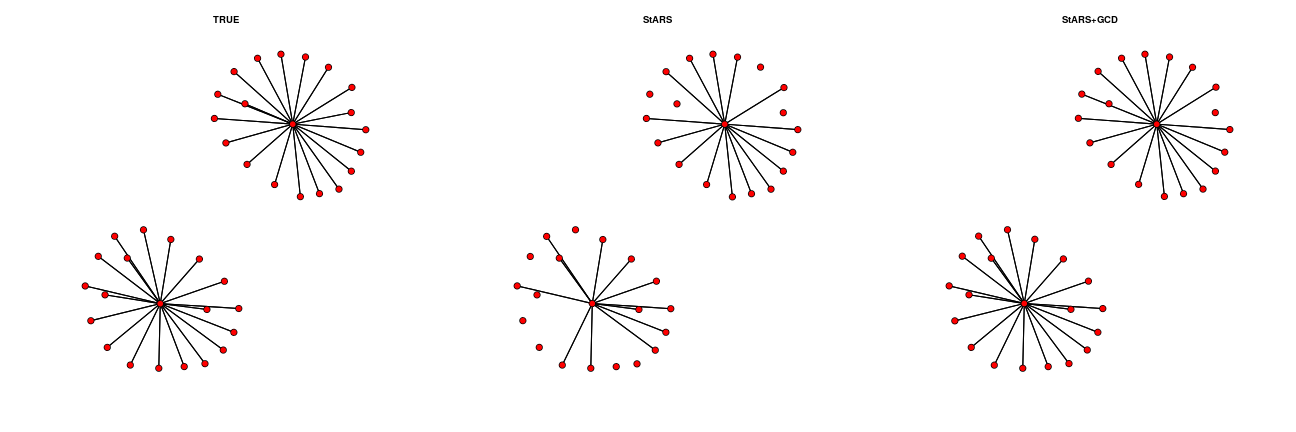
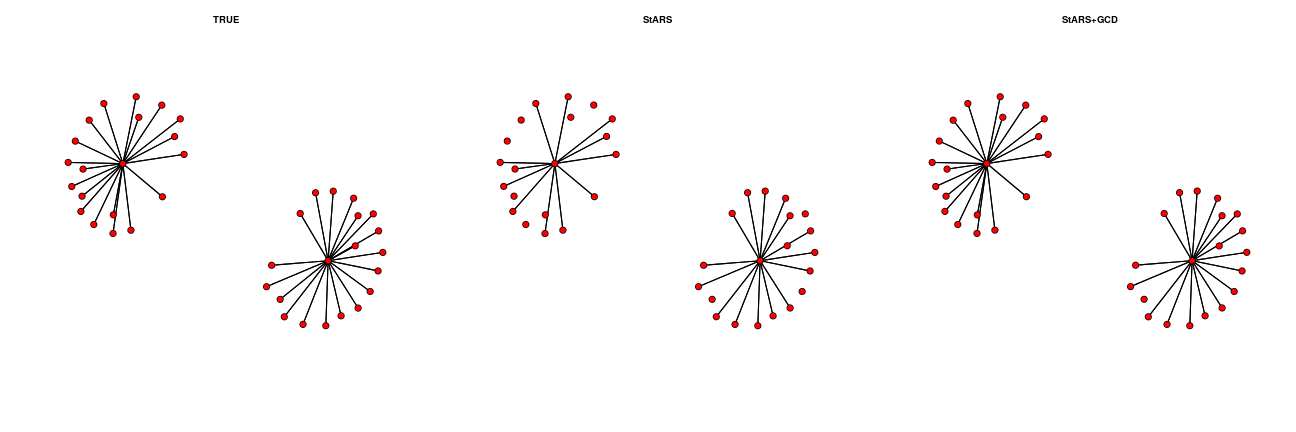
update README for rcpp branch

diff --git a/README.md b/README.md
@@ -33,12 +33,16 @@ Please see the paper preprint on [arXiv](https://arxiv.org/abs/1605.07072).
 ## Installation
 
 Installation of the current development version of pulsar requires the devtools package. Also we
-recommend some other packages for installation as needed (such as `huge`).
+recommend some other packages for installation as needed (such as `huge`). This branch uses Rcpp and
+RcppArmadillo for faster computation of some graph features (e.g. see [Additional criteria](#additional-criteria))
+section in this README. However, compiling custom C++ package is more bloated and may difficult to
+install (i.e. for certain operating systems). Stick to the master branch of this github if this
+applies to you.
 
 
 ```r
 library(devtools)
-install_github("zdk123/pulsar")
+install_github("zdk123/pulsar", ref="RcppArma")
 library(pulsar)
 ```
 
@@ -160,19 +164,181 @@ fit.q2 <- refit(out.q2)
 Compare model error by relative hamming distances between refit adjacency matrices and the true
 graph and visualize the results:
 
+```r
+plot(out.q2, scale=TRUE)
+```
+
+![plot of chunk unnamed-chunk-11](http://i.imgur.com/OukF6by.png)
+
+```r
+starserr <- sum(fit.q2$refit$stars != dat$theta)/p^2
+gcderr   <- sum(fit.q2$refit$gcd   != dat$theta)/p^2
+gcderr < starserr
+# [1] TRUE
+
+## install.packages('network')
+truenet  <- network::network(dat$theta)
+starsnet <- network::network(summary(fit.q2$refit$stars))
+gcdnet   <- network::network(summary(fit.q2$refit$gcd))
+par(mfrow=c(1,3))
+coords <- plot(truenet, usearrows=FALSE, main="TRUE")
+plot(starsnet, coord=coords, usearrows=FALSE, main="StARS")
+plot(gcdnet, coord=coords, usearrows=FALSE, main="StARS+GCD")
+```
+
+![plot of chunk unnamed-chunk-12](http://i.imgur.com/tIJMt6t.png)
+
+## Batch Mode
+
+For large graphs, we could reduce pulsar run time by running each subsampled dataset totally in
+parallel (i.e. each run as an indepedent job). This is a natural choice since we want to infer an
+independent graphical model for each subsampled dataset.
+
+Enter the BatchJobs. This package lets us invoke the queuing system in a high performance computing
+(hpc) environment so that we don't have to worry about any of the job-handling procedures in R.
+Pulsar has only been testing for Torque so far, but should work without too much effort for
+ LSF, SLURM, SGE and probably others.
+
+We also potentially gain efficiency in memory usage. Even for memory efficient representations of
+sparse graphs, for a lambda path of size L and for number N subsamples we must hold `L*N` `p*p`-
+sized adjacency matrices in memory to compute the summary statistic. BatchJobs lets us use a
+MapReduce strategy, so that only one `p*p` graph and one `p*p` aggregation matrix needs to be held
+in memory at a time. For large p, it can be more efficient to read data off the disk.
+
+This also means we will need access to a writable directory to write intermediate files (where the
+BatchJobs registry is stored). These will be automatically generated R scripts, error and output
+files and sqlite files so that BatchJobs can keep track of everything (although a different database
+can be used). Please see that package's documentation for more information. By default, pulsar will
+create the registry directory under R's  (platform-dependent) tmp directory but this should be
+overridden if these need to be retained long term (`regdir` argument to `batch.pulsar`).
+
+For generating BatchJobs, we need a configuration file (supply a path string to `conffile` argument,
+a good choice is the working directory) and a template file (which is best put in the same directory
+as the config file). Example config and PBS template file for Torque can be found in the /extdata/
+subdirectory of this github. See the BatchJobs homepage for creating templates for other systems.
+
+For this README I suggest using BatchJobs's convenient serial or multicore test mode to get things
+up and running. Download the files in a browser or directly in an R session:
+
+
+```r
+url <- "https://raw.githubusercontent.com/zdk123/pulsar/master/inst/extdata"
+url <- paste(url, ".BatchJobsSerialTest.R", sep="/") # Serial mode
+## url <- paste(url, ".BatchJobsMC.R", sep="/") # uncomment for multicore
+download.file(url, destfile=".BatchJobs.R")
+```
+
+Since BatchJobs is not imported by `pulsar`, it needs to be loaded.
+Uncomment `cleanup=TRUE` to remove registry directory (useful if running through this readme
+multiple times).
+
+
+```r
+library(BatchJobs)
+out.batch <- batch.pulsar(dat$data, fun=quicr, fargs=quicargs,
+                rep.num=100, criterion='stars', seed=10010) 
+                #, cleanup=TRUE)
+```
+
+Check that we get the same result from batch mode pulsar:
+
+
+```r
+opt.index(out.q, 'stars') == opt.index(out.batch, 'stars')
+# [1] TRUE
+```
+
+It is also possible to run bounded-mode stars in batch, but the first 2 subsamples (2 jobs) will
+run to completetion before the final N-2 are run. This serializes the batch mode a bit, but
+can still be faster for fine grain lambda paths and for sparse graphs. It is also advisable to
+do this for the `gcd` criterion because, computing graphlet frequencies can be costly and this is
+only done for the graphs in the bounded lambda path (in serial/multicore or batch pulsar).
+
+To keep the initial N=2 jobs separate from the rest, the string provided to the `init` argument
+("subtwo" by default) is concatenated to the basename of `regdir`. The registry/id is returned
+but named `init.reg` and `init.id` from `batch.pulsar`.
 
 
 
+```r
+out.bbatch <- update(out.batch, criterion=c('stars', 'gcd'),
+                     lb.stars=TRUE, ub.stars=TRUE)
+```
+
+Check that we get the same result from bounded/batch mode pulsar:
 
 
+```r
+opt.index(out.bbatch, 'stars') == opt.index(out.batch, 'stars')
+# [1] TRUE
+```
+
+### A few notes on batch mode pulsar
+
+* In real applications, on an hpc, it is important to specify the `res.list` argument, which is a
+__named__ list of PBS resources that matches the template file. For example if using the 
+simpletorque.tml file provided in /extdata/, one would provide `res.list=list(walltime="4:00:00",
+ nodes="1", memory="1gb")` to give the PBS script 4 hours and 1GB of memory and 1 node to the
+ resource list for `qsub`.
+
+* Gains in efficiency and run time (especially when paired with lower/upper bound mode) will largely
+depend on your hpc setup. E.g - do you have sufficient priority in the queue to run your 100 jobs
+in perfect parallel? Because settings vary so widely, we cannot provide support for unexpected hpc
+problems or make specific recommendations about requesting the appropriate resource requirements
+for jobs.
+
+* One final note: we assume that a small number of jobs could fail at random. If jobs fail to
+complete a warning will be given, but `pulsar` will complete the run and summary statistics will be
+computed over only over the successful jobs (with normalization constants appropriately adjusted).
+It is up to the user to re-start `pulsar` if there is a sampling-dependent reason some subset of
+jobs fail: e.g. an outlier datapoint increases computation time or graph density and insufficient
+resources are allocated.
+
+## Additional criteria
+
+Pulsar includes several other criteria of interest, which can be run indepedently of StARS (these
+are not yet included for batch mode). For example, to replicate the augmented AGNES (A-AGNES) method
+of [Caballe et al 2016](http://arxiv.org/abs/1509.05326), use the node-wise dissimilarity metric 
+(diss) and the AGNES algorithm as implemented in the `cluster` package. A-AGNES selects a target
+lambda that mimimizes the variance of the estimated diss (computed by `pulsar`) + the [squared] bias
+of the expected estimated dissimilarities w.r.t. the AGNES-selected graph - that has the maximum
+agglomerative coefficient over the path.
 
 
+```r
+out.diss  <- pulsar(dat$data, fun=quicr, fargs=quicargs,
+                    rep.num=100, criterion='diss', seed=10010, ncores=2)
+fit <- refit(out.diss)
+## Compute the max agglomerative coefficient over the full path
+path.diss <- lapply(fit$est$path, pulsar:::graph.diss)
+acfun <- function(x) cluster::agnes(x, diss=TRUE)$ac
+ac <- sapply(path.diss, acfun)
+ac.sel <- out.diss$diss$merge[[which.max(ac)]]
 
+## Estimate the diss bias
+dissbias <- sapply(out.diss$diss$merge,
+                   function(x) mean((x-ac.sel)^2)/2)
+varbias  <- out.diss$diss$summary + dissbias
 
+## Select the index and refit
+opt.index(out.diss, 'diss') <- which.min(varbias)
+fit.diss <-refit(out.diss)
+```
 
+Evalue the edge-wide model error:
 
+```r
+aagneserr <- sum(fit.diss$refit$diss != dat$theta)/p^2
+aagneserr < starserr
+# [1] TRUE
+aagneserr < gcderr
+# [1] FALSE
+```
 
+Other criteria that are currently implemented are [natural connectivity](http://iopscience.iop.org/0256-307X/27/7/078902)
+stability, Tandon & Ravikumar's [sufficiency criterion](http://jmlr.org/proceedings/papers/v32/tandon14.html)
+and variability of the [Estrada index](http://journals.aps.org/pre/abstract/10.1103/PhysRevE.75.016103).
+These are currently implemented without a default method for actually selecting an optimal lambda,
+but as demonstrated above, these can be _ex post_ with a `pulsar` object.
 
-
-
-
+Feel free to request your favorite selection criterion to include with this package.
